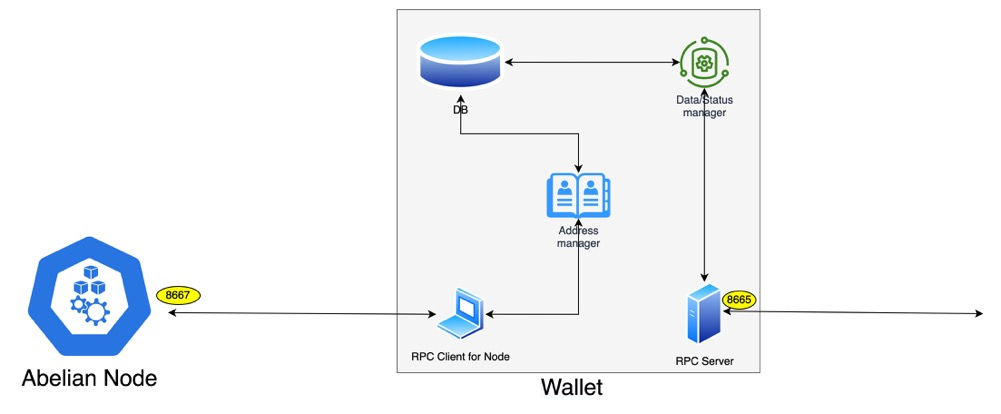
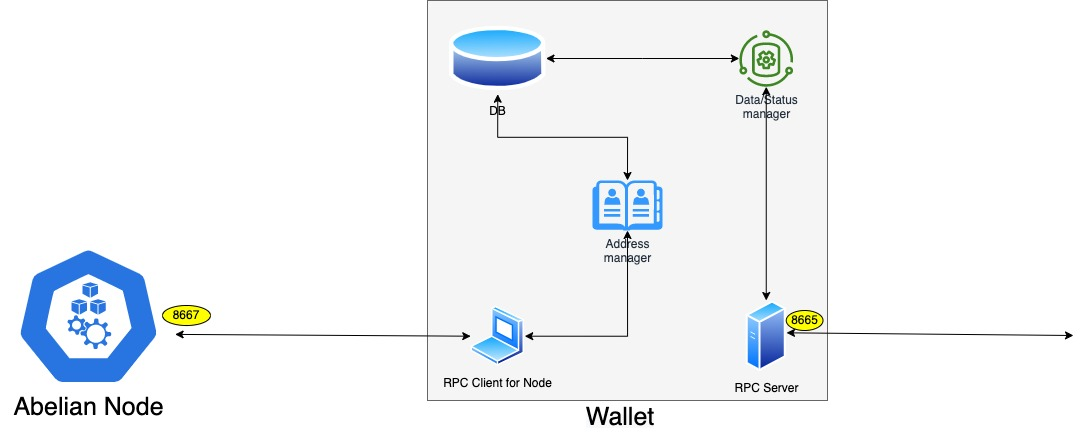
Modify the docs

Changed region(s): [[0.0, 0.0, 0.991, 0.9855], [0.5265, 0.3768, 0.6194, 0.6087]]

diff --git a/docs/Abewallet-English.md b/docs/Abewallet-English.md
@@ -1,6 +1,7 @@
 # 1. Overview
 
 The main purpose of Abewallet is to manage the Transaction Output (also known as **TXO** or **coin**) of the wallet owner.
+
 The main functions are as follows:
 
 - Create new wallet
@@ -11,12 +12,13 @@ The main functions are as follows:
 
 The architecture is as follows:
 
-Through the connection and interaction with the Abelian blockchain node (referred to as **ABEC node**), the wallet can query and scan the data in blockchain.
-The wallet owner's coins and corresponding keys, as well as related data (e.g., transactions) are stored in wallet database.
-In addition, wallet manages the address, and provides the function of creating transaction.
-In other words, wallet obtains data from blockchain, store only the data related to its owner, and produce (transfer) transactions for the Abelian system.
+![System Design](images/System Design.jpg)
 
-![System Design](images/System Design.svg)
+- Through the connection and interaction with the Abelian blockchain node (referred to as **ABEC node**), the wallet can query and scan the data in blockchain.
+- The wallet owner's coins and corresponding keys, as well as related data (e.g., transactions) are stored in wallet database.
+- In addition, wallet manages the address, and provides the function of creating transaction.
+
+In words, wallet obtains data from blockchain, store only the data related to its owner, and produce (transfer) transactions for the Abelian system.
 
 # 2. Functionalities (User Interface)
 Abewallet provides the following functionalities to the users:
@@ -27,13 +29,13 @@ Abewallet provides the following functionalities to the users:
 4. Users can use the addresses created by wallet to receive coins, in mining or transfer.
 5. The wallet owner can run the wallet to synchronize the blockchain data when needed, and the wallet will communicate with the connected (running) ABEC node, scan the blockchain and update its local database.
 6. Users can query wallet status and information through the provided APIs.
-7. When needed, a user can restore his wallet, by using the 24-words mnemonic. 
+7. When needed, a user can restore his/her wallet, by using the crypto version and  the 24-words mnemonic. 
 
 ## 2.1 Create a new wallet
 A user can create a wallet by command `./abewallet --create`. 
 In this process, the program would check whether the data directory exists, and exit if so, otherwise enter the process of creating a wallet, the overall process is shown in the figure.
 
-![Create Wallet](./images/Create New Wallet (User Interface).svg)
+![Create Wallet](./images/Create New Wallet for User Interface.svg)
 
 - require the user to enter a **private passphrase** and a **public passphrase**. 
 - output **crypto version** and **mnemonic words** and remind users to store them in a safe place.
@@ -87,11 +89,12 @@ When a wallet is running, the wallet owner can run the following two commands to
 
   An **instance address** and its **index number** will be returned.
 
-**NOTE:** We use the term `Instance Address` to denote the addresses that users use to receive coins in mining or transfer.
+**NOTE:** We use the term `instance Address` to denote the addresses that users use to receive coins in mining or transfer.
 
 
 ## 2.4 Synchronize the blockchain
 Suppose the configuration items for connecting ABEC node are configured.
+
 When the wallet is started using the following command with **public passphrase**, 
 the wallet will establish a connection with the configured ABEC node, and synchronize the data from the node and fetch the coins belonging to the wallet.
 
@@ -115,8 +118,7 @@ Wallet provides the following APIs for querying wallet status and blockchain inf
 | walletpassphrase       | passphrase<br />timeout | keep the wallet unlocked for a specified time   |
 
 ## 2.6 Create Transfer Transactions
-When a wallet is running, the wallet owner can unlock the wallet using private passphrase and then use the following API 
-to create a transfer transaction, which is automatically sent to the connected ABEC node, and then is broadcast to Abelian network.
+When a wallet is running, the wallet owner can unlock the wallet using private passphrase and then use the following API to create a transfer transaction, which is automatically sent to the connected ABEC node, and then is broadcast to Abelian network.
 
 **Note: during the transaction generation, a new address may be generated to store change. When the transaction is created successfully, the *max index number* of address in the wallet would be returned.**
 
@@ -126,12 +128,14 @@ to create a transfer transaction, which is automatically sent to the connected A
 
 ## 2.7 Restore a wallet
 
-A user can recover his wallet through the mnemonic words saved when generating the wallet. 
+A user can recover his/her wallet through the mnemonic words saved when generating the wallet. 
 The process is basically the same as creating a wallet, except that choose to `have seed` and then input the crypto version and mnemonic words (for seed). 
-Note that the user is also required to input the **max index number** of recovery addresses. 
-During `create address` and `create transaction`, the output will always show `the current max index of address in wallet`, and users shall notice this information. 
 
-![Create Wallet](./images/Restore Wallet (User Interface).svg)
+**Note that the user is also required to input the max index number of recovery addresses.** 
+
+**During the process of generating addresses and creating transactions, the output will always show the current max index of address in wallet, and users shall notice this information.** 
+
+![Create Wallet](./images/Restore Wallet for User Interface.svg)
 
 
 # 3. Detailed Designs
